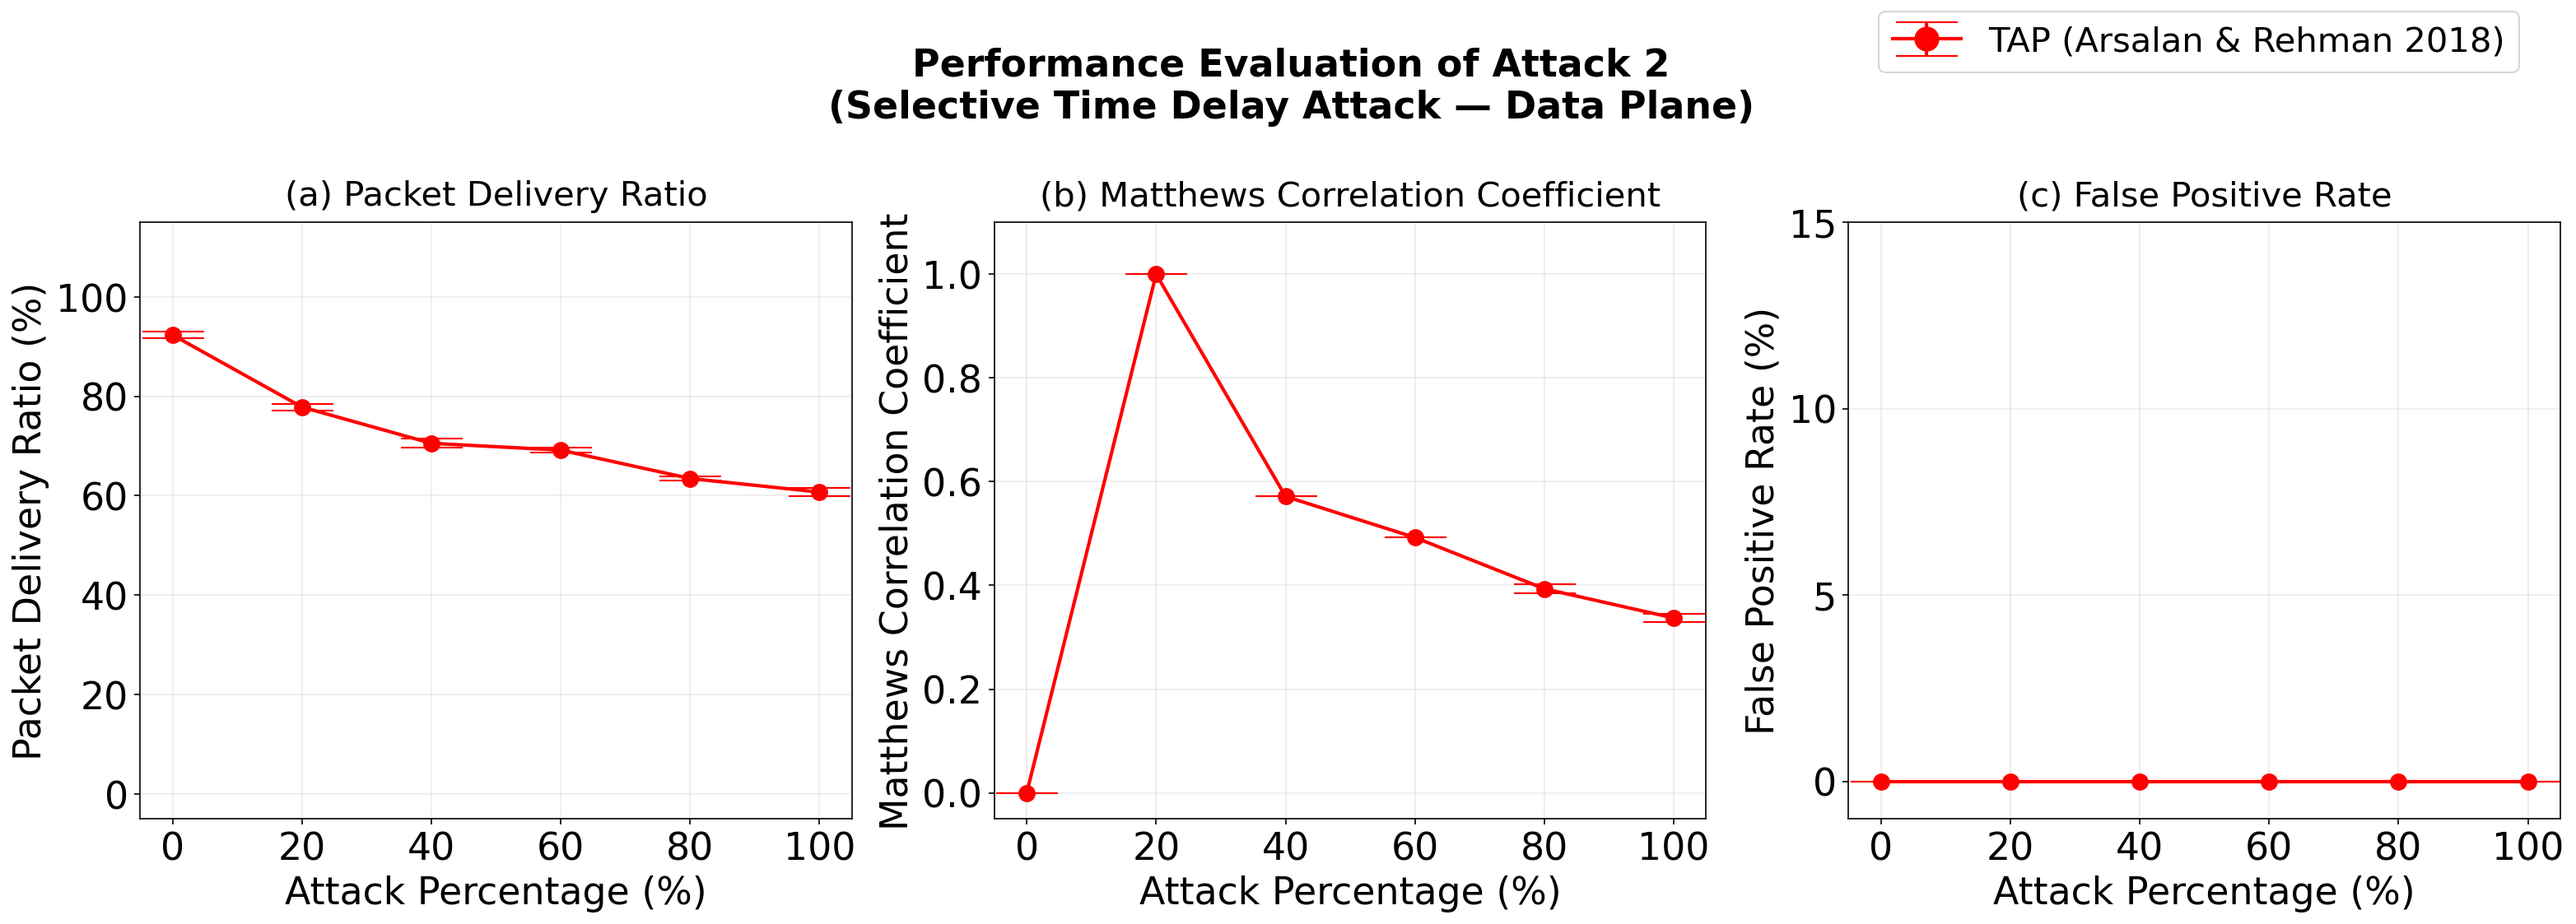
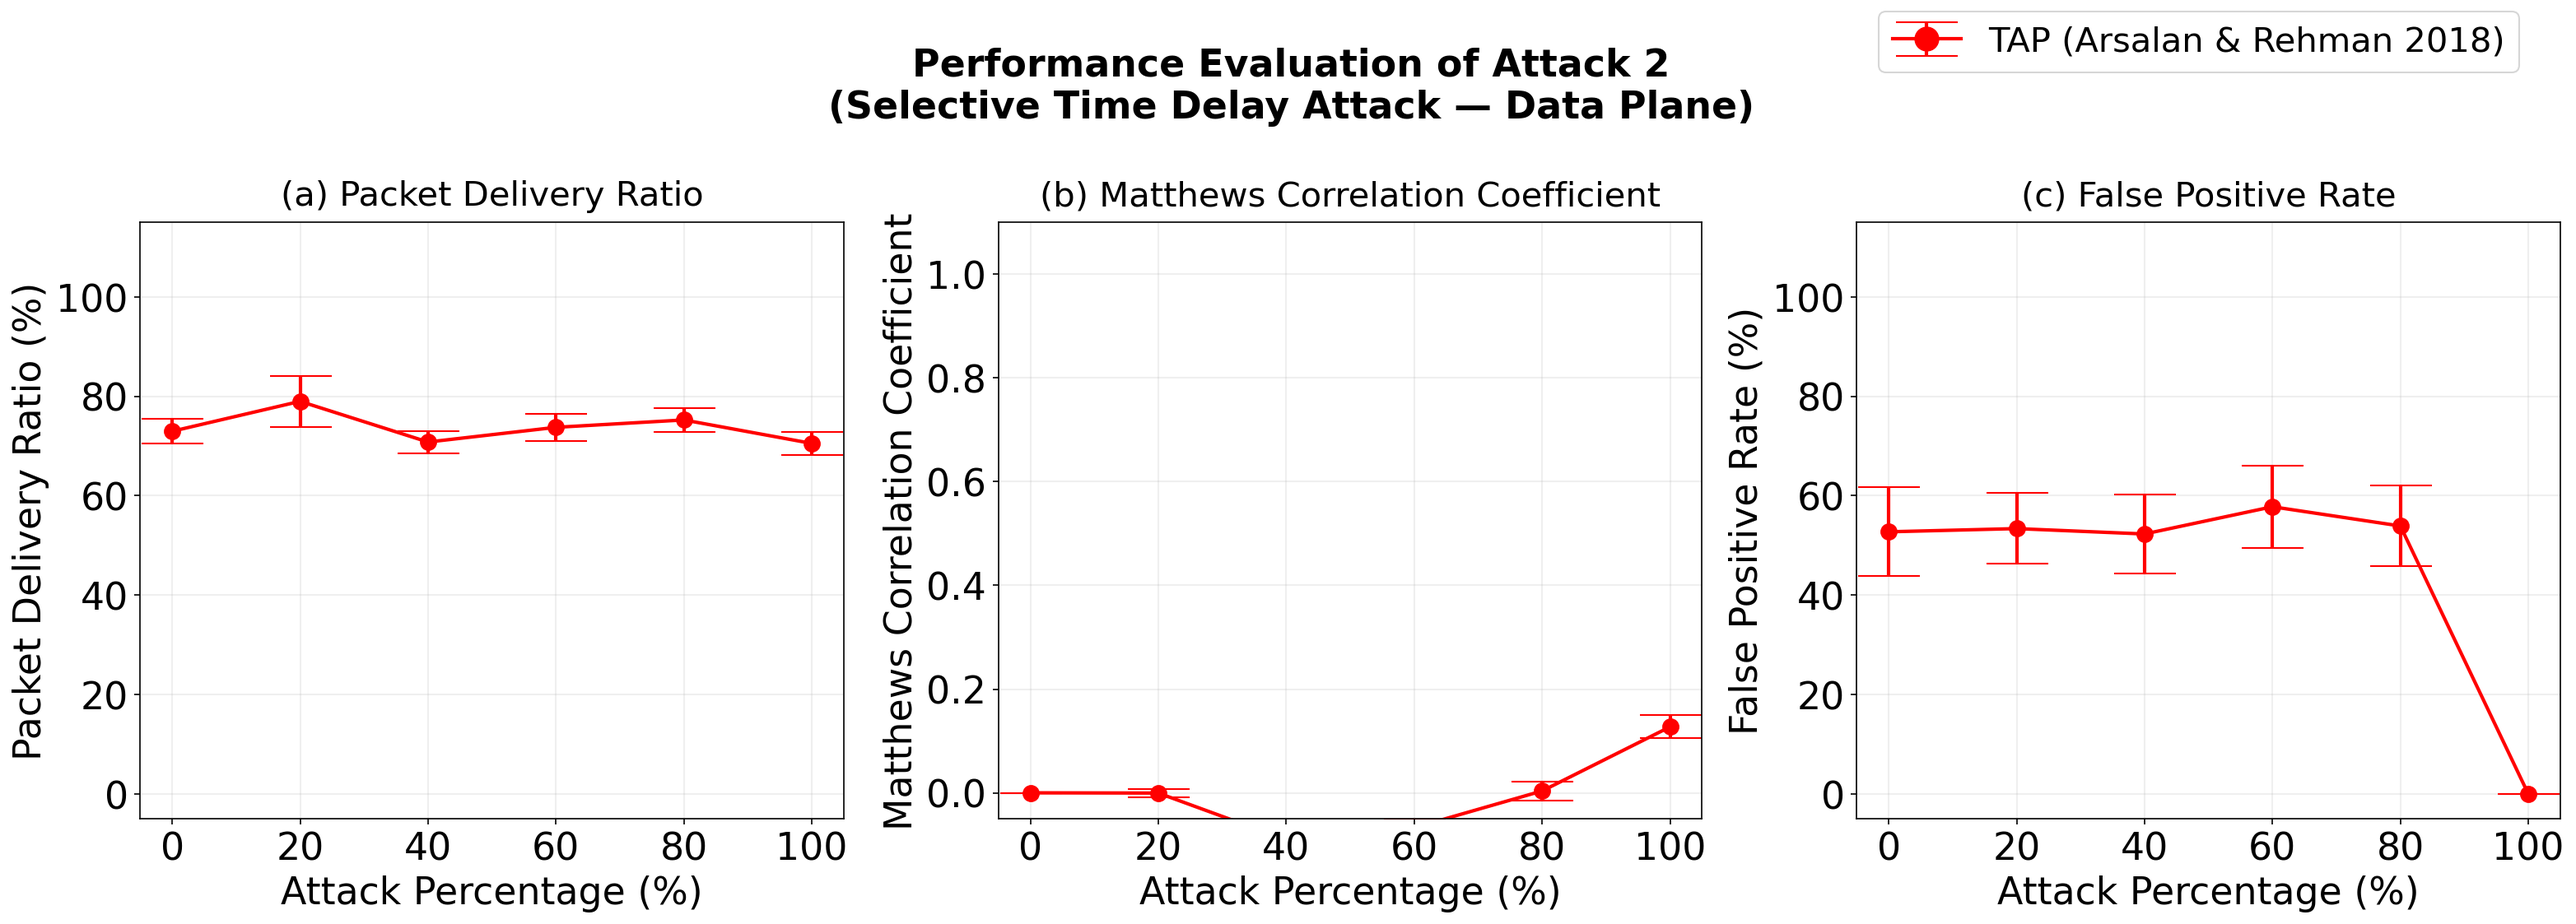
fix: updated the diagrams

diff --git a/scripts/plot_tap_results.py b/scripts/plot_tap_results.py
@@ -230,8 +230,8 @@ def main():
         col    = COL_FPR_CUR,
         ylabel = "False Positive Rate (%)",
         title  = "(c) False Positive Rate",
-        ylim   = [-1, 15],
-        yticks = [0, 5, 10, 15]
+        ylim   = [-5, 115],
+        yticks = [0, 20, 40, 60, 80, 100]
     )
 
     # Shared legend at top (matching supervisor's NumColumns=2 style)
@@ -275,8 +275,8 @@ def main():
         col    = COL_MIT_CUR,
         ylabel = "Mitigation Latency (ms)",
         title  = "(b) Mitigation Latency",
-        ylim   = [-5, 120],
-        yticks = [0, 20, 40, 60, 80, 100]
+        ylim   = None,
+        yticks = None
     )
 
     legend_handle2 = fig2.legend(
@@ -308,8 +308,8 @@ def main():
         (COL_LAT_AVG, "End-to-End Latency (ms)",           "(b) Latency",     None,       None),
         (COL_MCC_CUR, "Matthews Correlation Coefficient",  "(c) MCC",         [-0.05,1.1],[0.0,0.2,0.4,0.6,0.8,1.0]),
         (COL_DR_CUR,  "Detection Rate (%)",                "(d) DR",          [-5, 115],  [0,20,40,60,80,100]),
-        (COL_FPR_CUR, "False Positive Rate (%)",           "(e) FPR",         [-1, 15],   [0,5,10,15]),
-        (COL_MIT_CUR, "Mitigation Latency (ms)",           "(f) Mitigation",  [-5, 120],  [0,20,40,60,80,100]),
+        (COL_FPR_CUR, "False Positive Rate (%)",           "(e) FPR",         [-5, 115],  [0,20,40,60,80,100]),
+        (COL_MIT_CUR, "Mitigation Latency (ms)",           "(f) Mitigation",  None,       None),
     ]
 
     first_p1 = None
